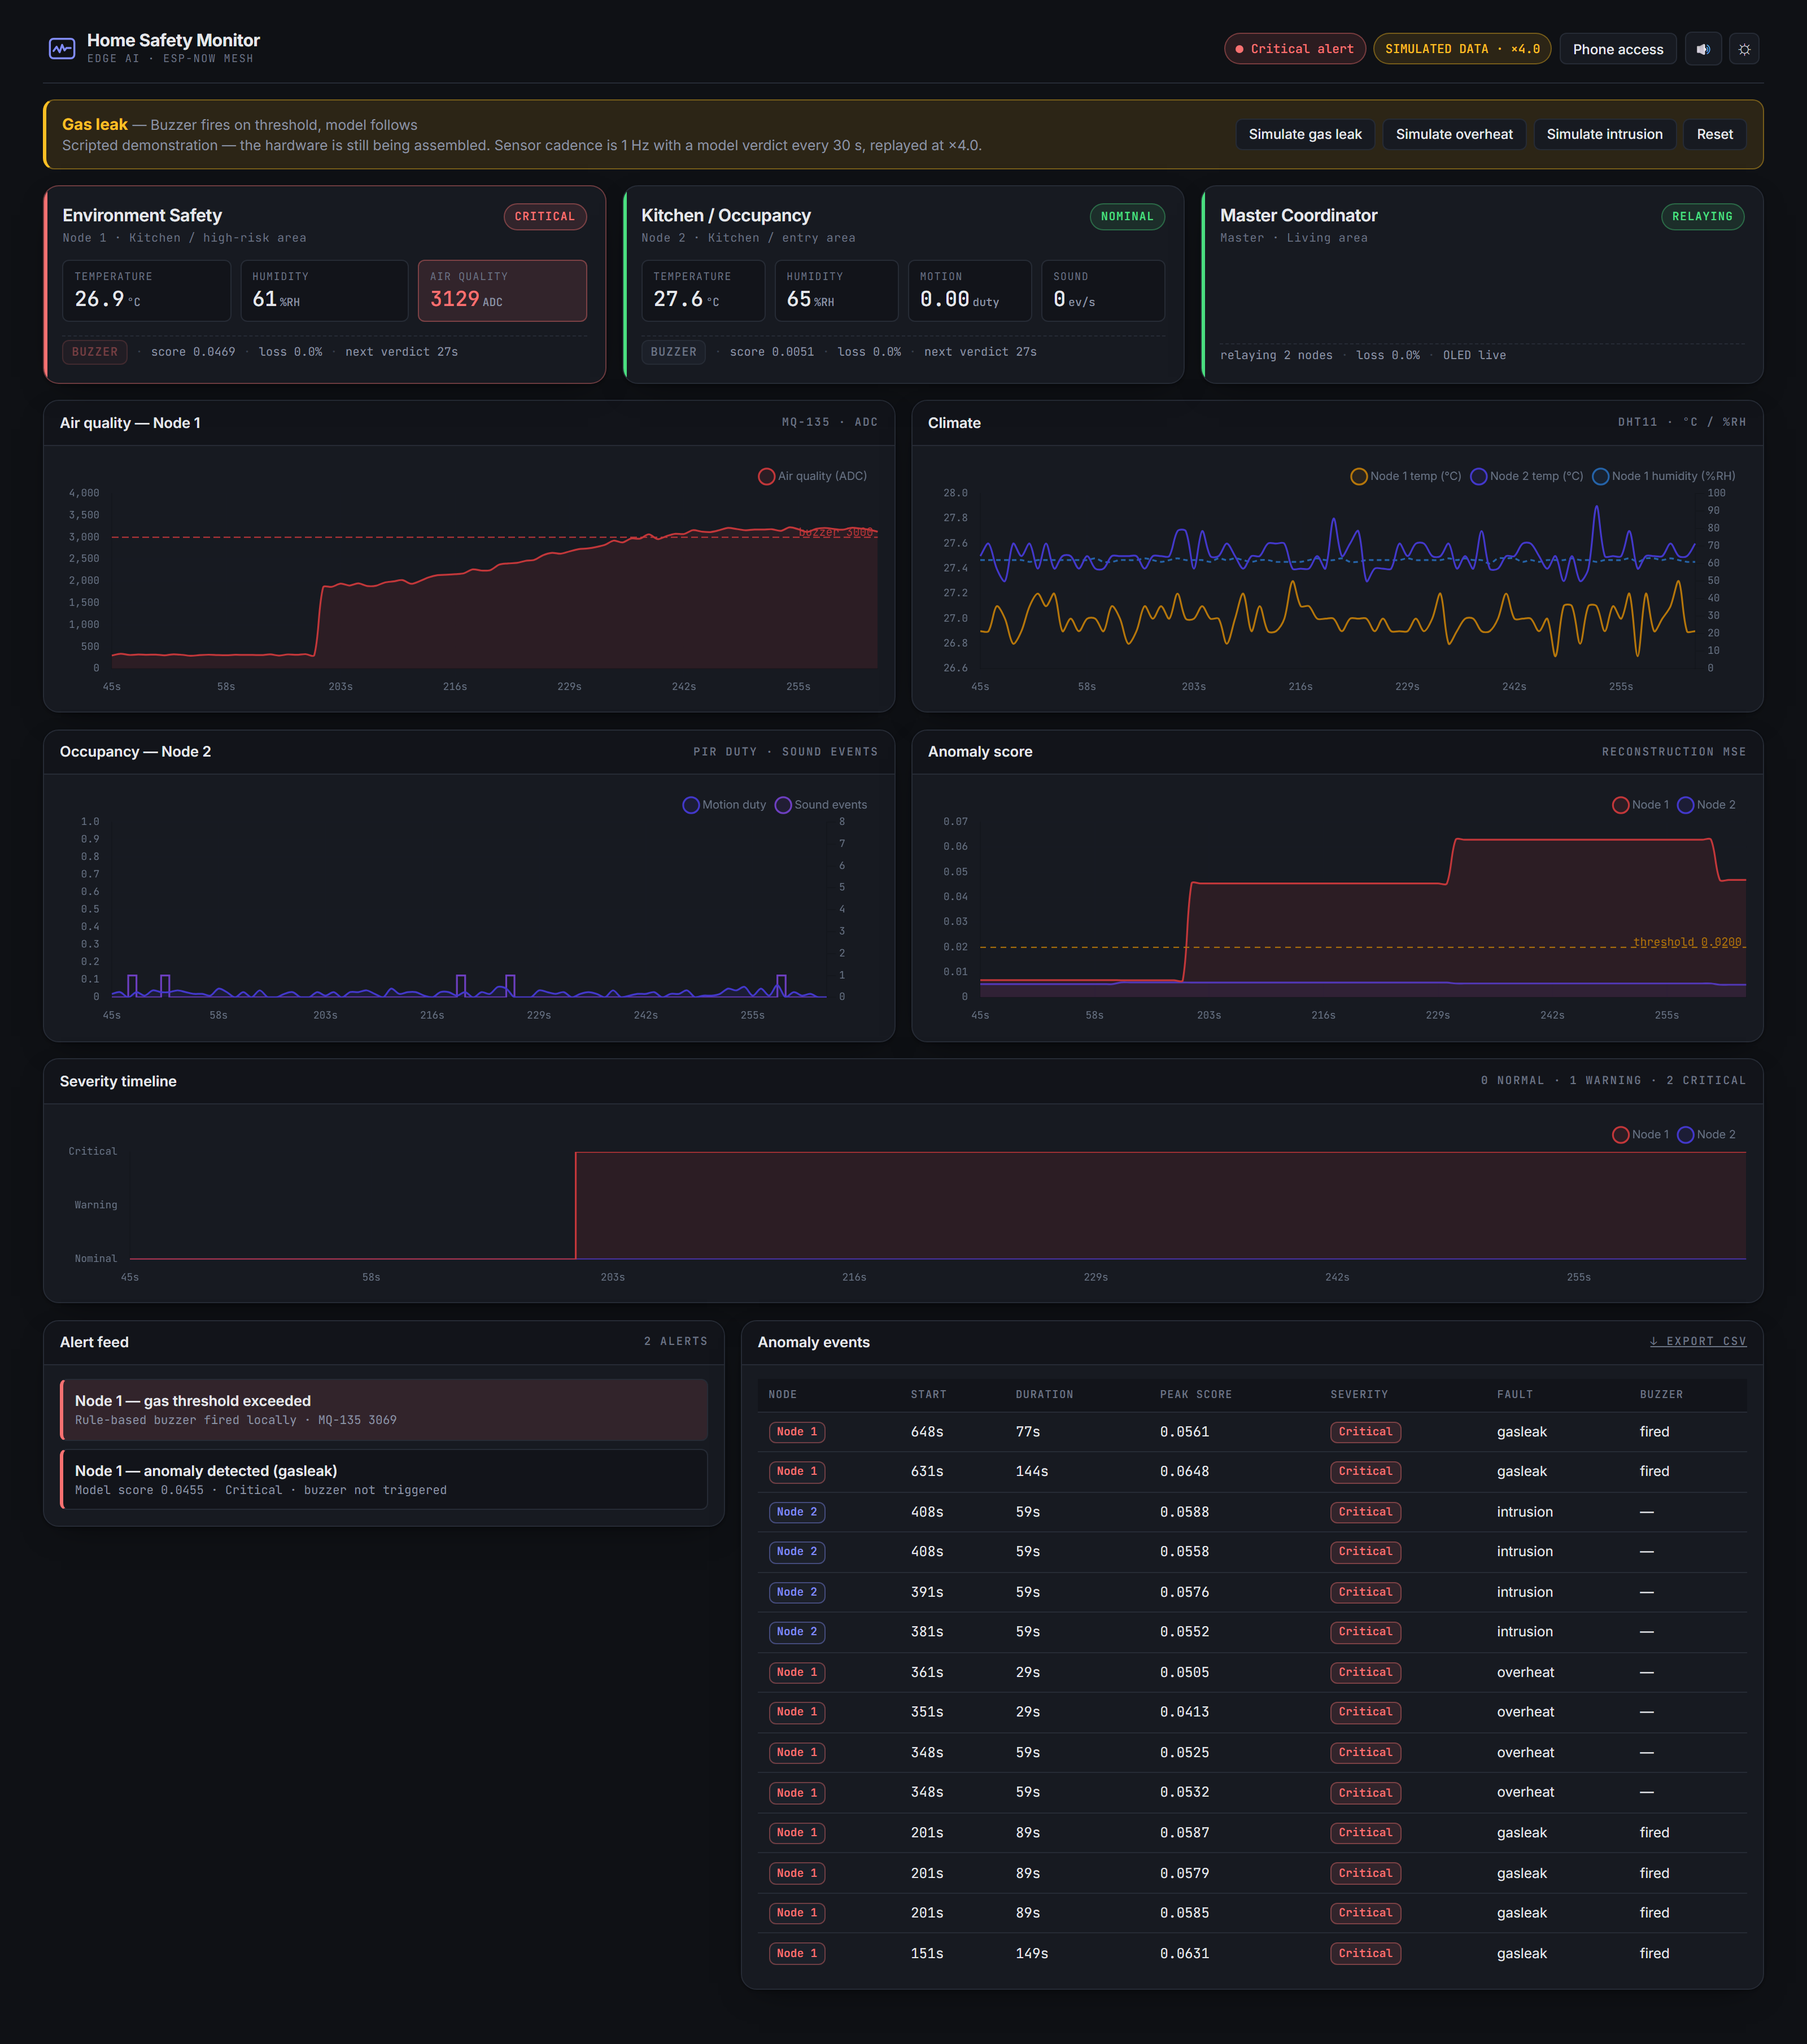
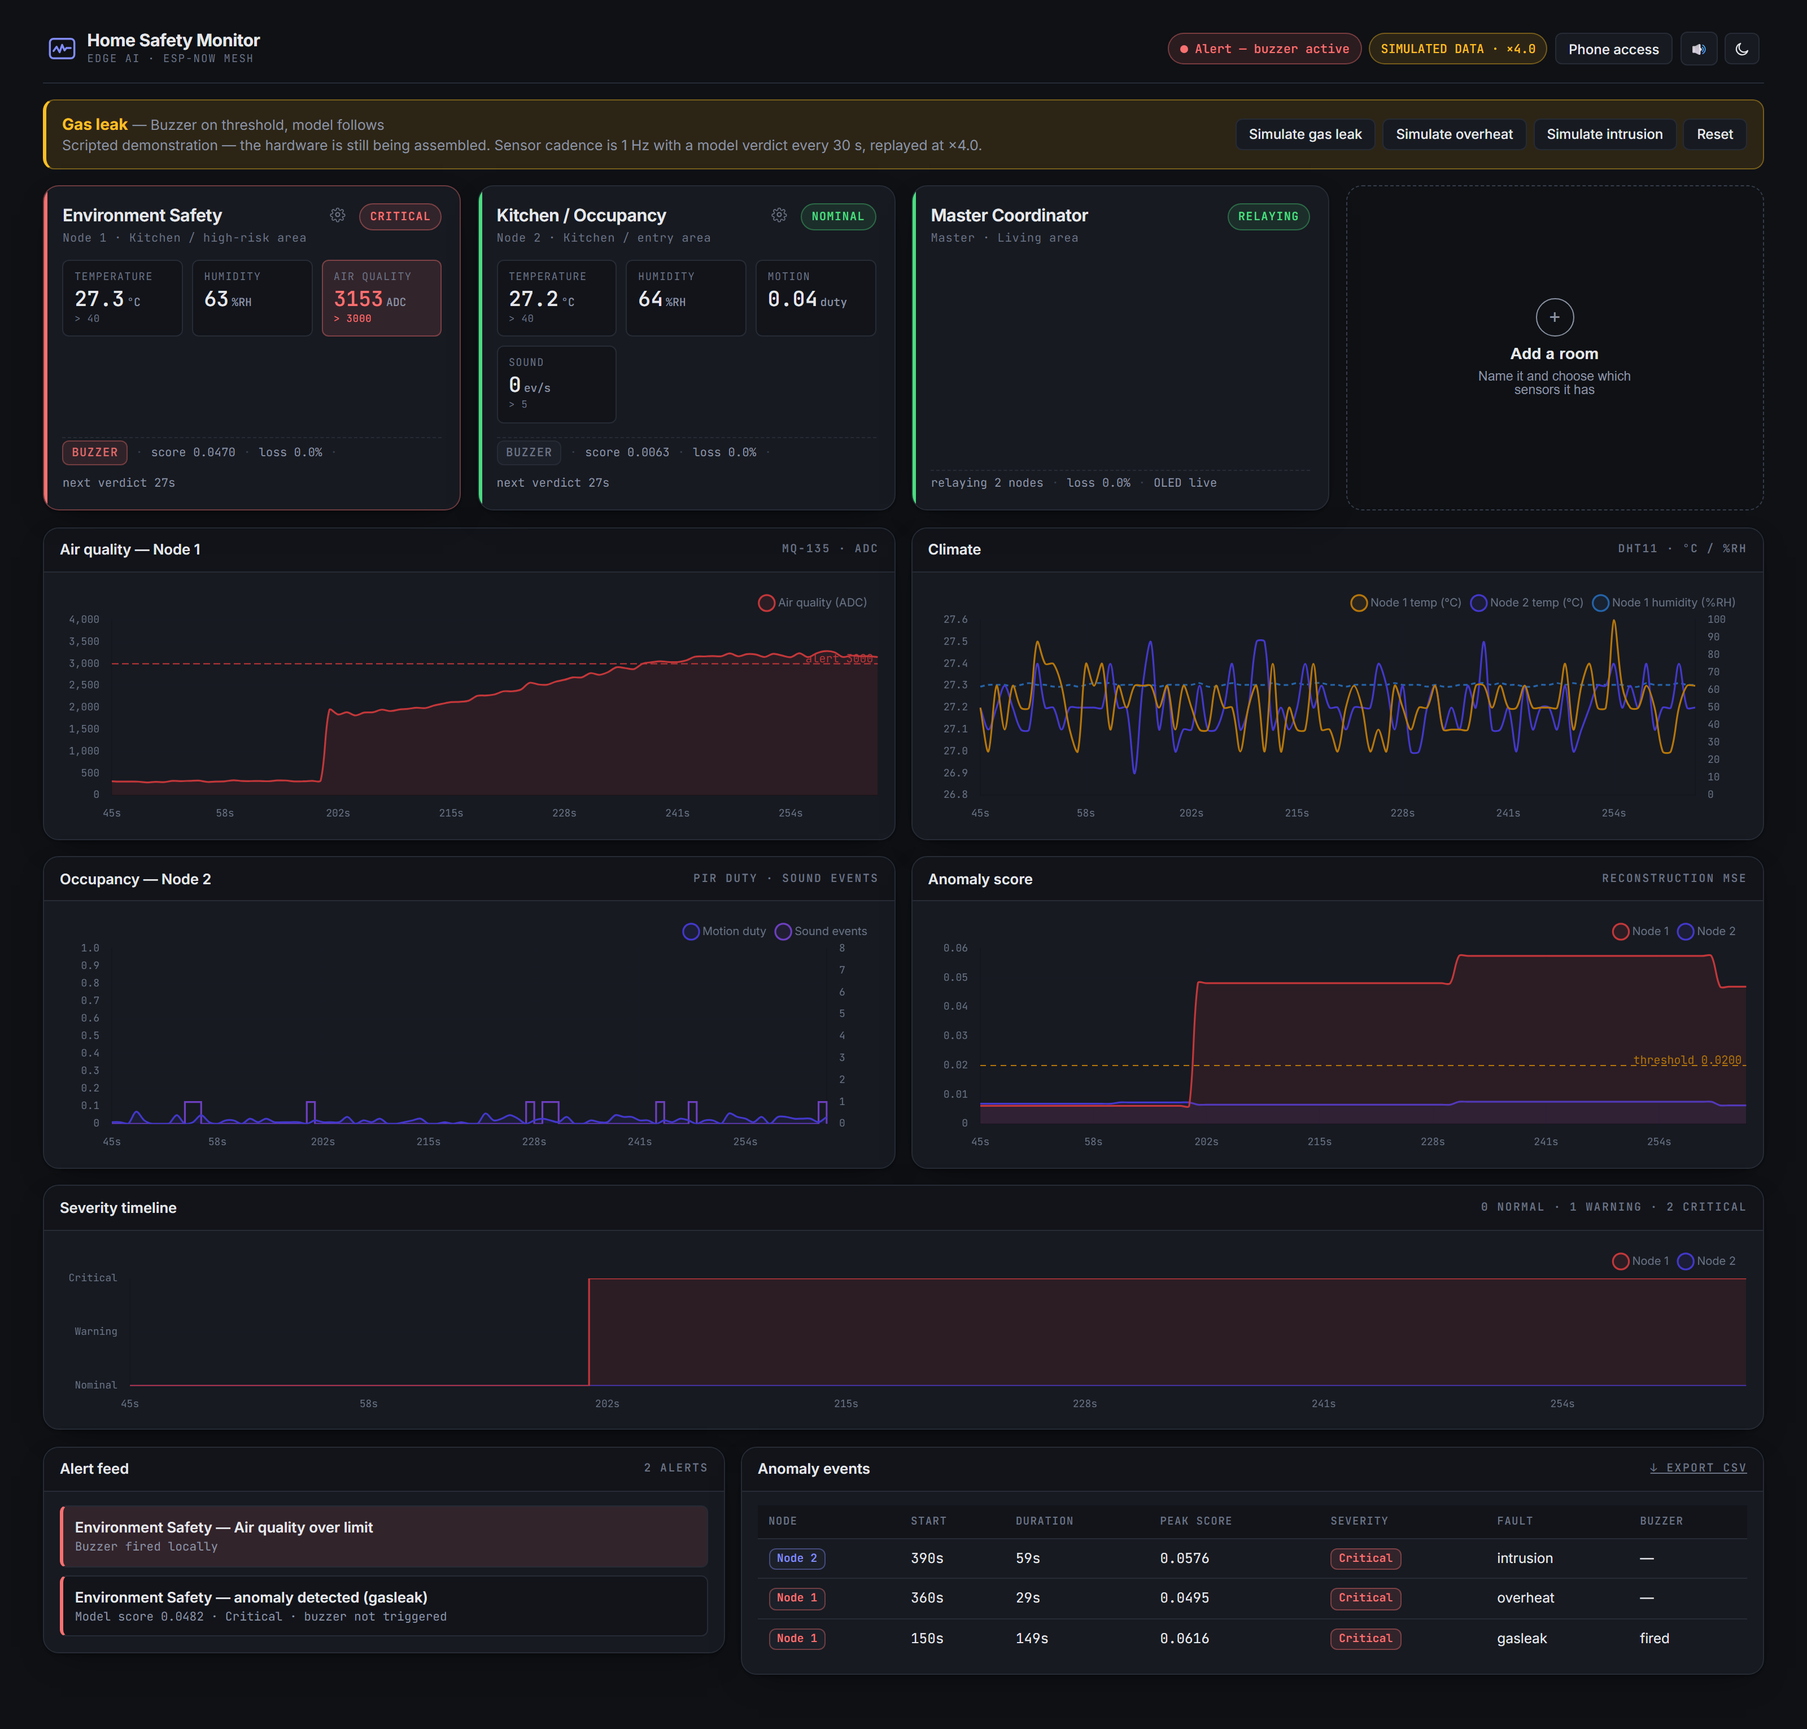
Refresh screenshots and tick the roadmap for room management

diff --git a/ROADMAP.md b/ROADMAP.md
@@ -59,6 +59,11 @@ Legend: `[x]` done · `[ ]` outstanding
 - [x] Responsive to phone width; table collapses to cards
 - [x] LAN serving with on-screen QR for phone access
 - [x] Reproducible screenshot capture for slides
+- [x] Sun/moon theme toggle that shows the mode it switches to
+- [x] User-editable node roster — add and remove rooms from the UI
+- [x] Per-room sensor selection from a catalogue of parts the project owns
+- [x] User-defined alert limits per feature, evaluated every sample with hysteresis
+- [x] Threshold breaches rendered separately from the model verdict
 
 ---
 
